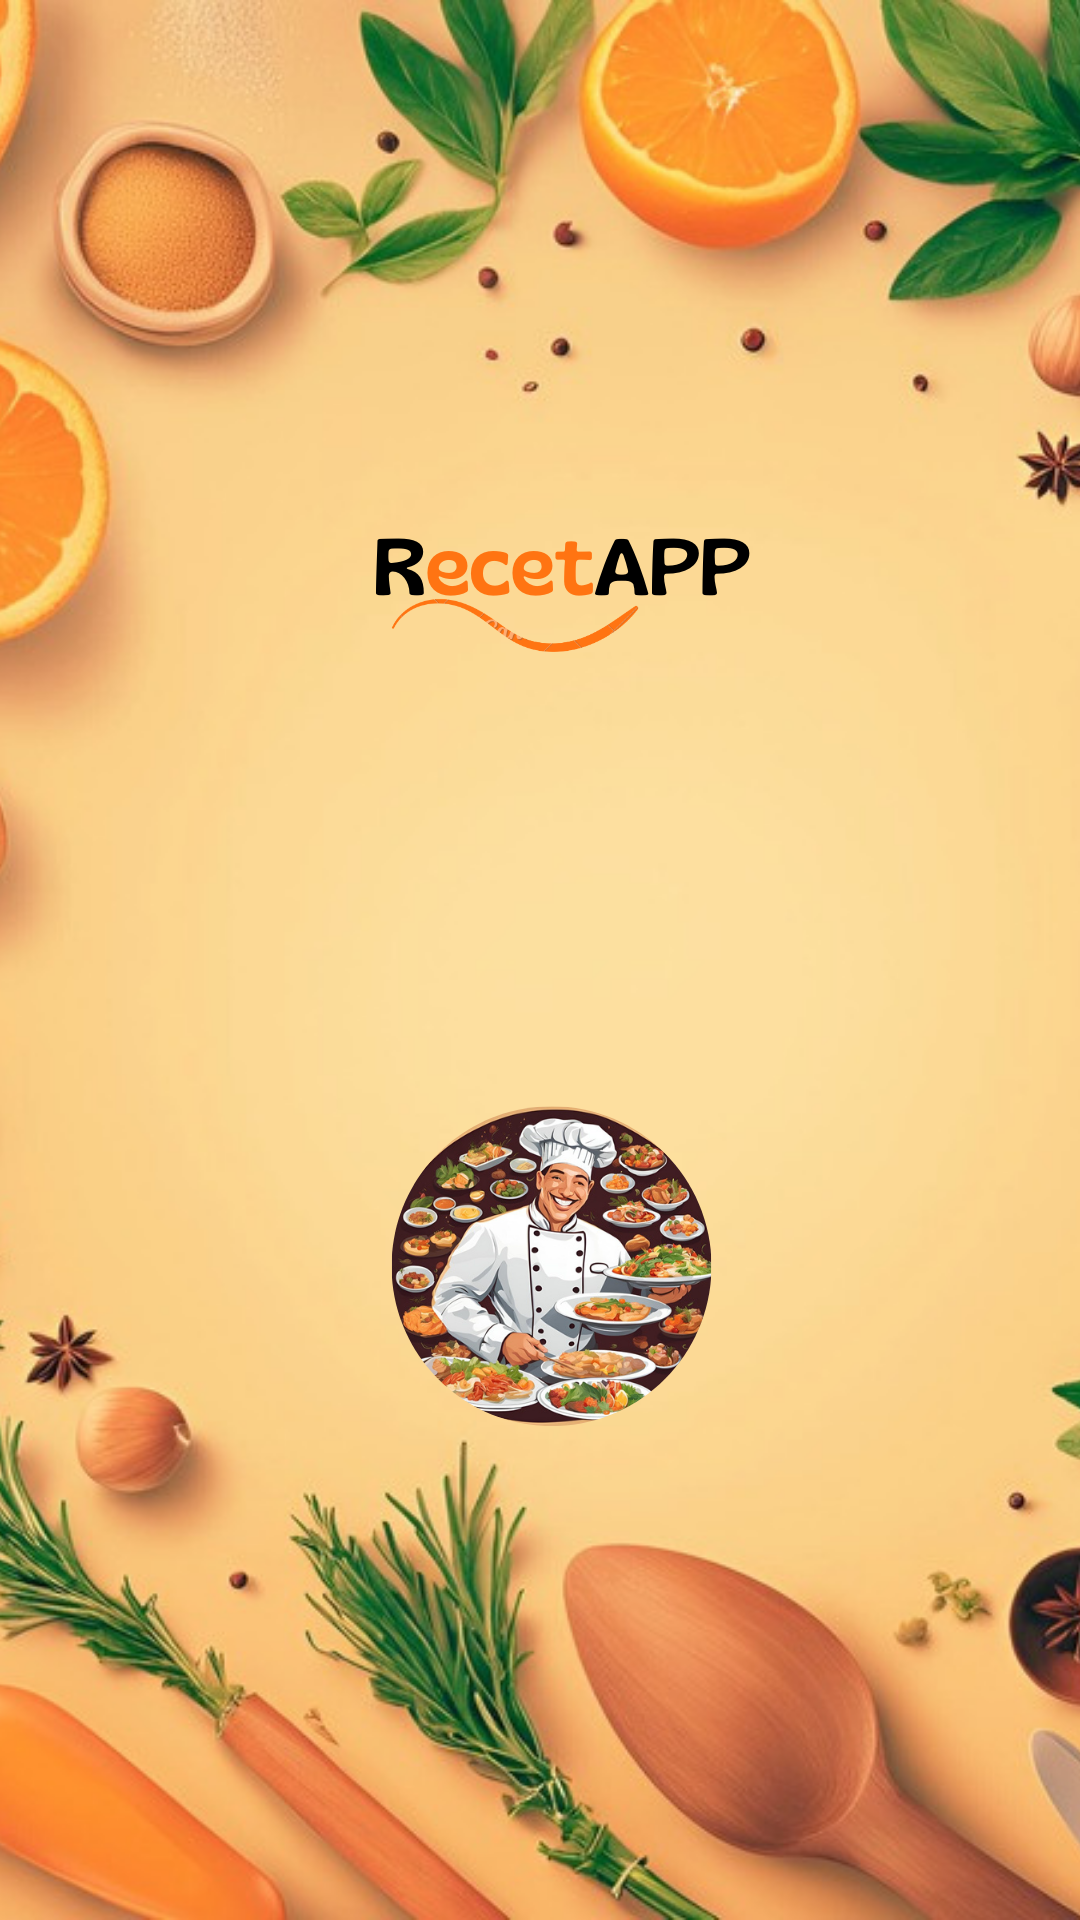
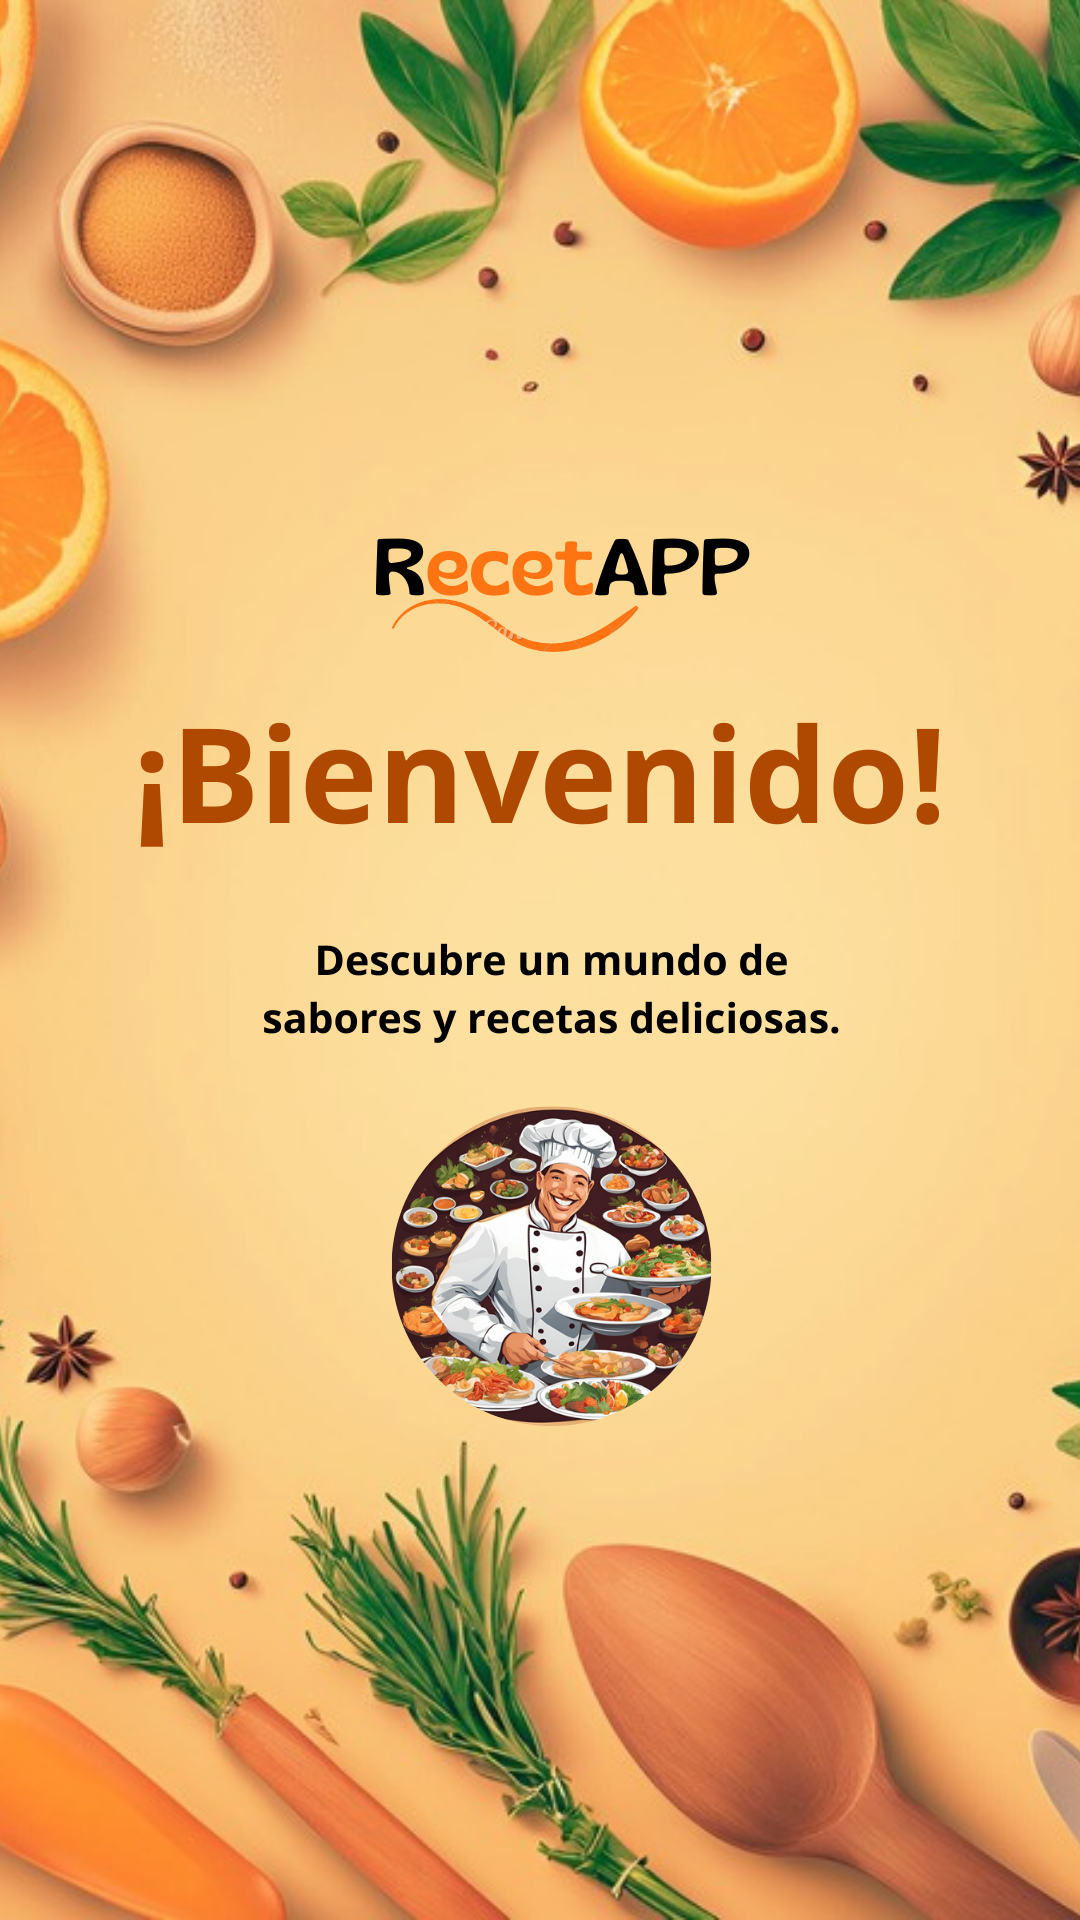
Update Slide1

Changed region(s): [[0.1222, 0.375, 0.8861, 0.4375], [0.2444, 0.4688, 0.7639, 0.5625]]

diff --git a/src/app/intro/intro.page.scss b/src/app/intro/intro.page.scss
@@ -1,34 +1,35 @@
 swiper-container {
-    width: 100%;
-    height: 100%;
+  width: 100%;
+  height: 100%;
 }
 swiper-slide {
-  position: relative;
-  display: flex;
-  flex-direction: column;
-  align-items: center;
-  justify-content: center;
-  background-color: rgb(255, 255, 255);
+position: relative;
+display: flex;
+flex-direction: column;
+align-items: center;
+justify-content: center;
+background-color: rgb(255, 255, 255);
 }
 .title1 {
-  color: rgb(173, 76, 1);
-  font-size: 1.5rem;
+color: rgb(173, 76, 1);
+font-size: 1.5rem;
 }
 
 .description1 {
-  color: black;
-  font-size: 1.2rem;
-  margin-top: 30px;
+color: black;
+text-align: center;
+font-weight: bold;
 }
 
+
 .bg-color-slide {
-  background-color: rgb(247, 247, 247);
+background-color: rgb(247, 247, 247);
 }
 
 .close-icon {
-  position: absolute;
-  top: 10px;
-  right: 10px;
-  font-size: 35px;
-  color: white;
+position: absolute;
+top: 10px;
+right: 10px;
+font-size: 35px;
+color: white;
 }

diff --git a/src/app/intro/intro.page.html b/src/app/intro/intro.page.html
@@ -4,9 +4,9 @@
   pagination="true"
   >
     <swiper-slide class="bg-color-slide">
-      <h1 class="title1">!Bienvenido¡</h1>
+      <h1 class="title1">¡Buen provecho!</h1>
       <img src="/assets/imgs/Slide1.png">
-      <h2 class="description1">Descubre un mundo de sabores y recetas deliciosas.</h2>
+      <p class="description1">Explora miles de recetas y comparte tus creaciones con otros amantes de la cocina.</p>
     </swiper-slide>
     <swiper-slide>
       <h1>Hola Slide 2</h1>
